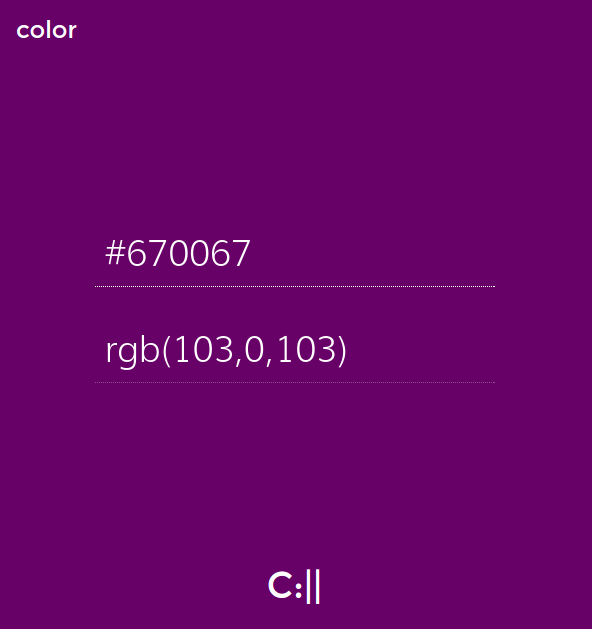
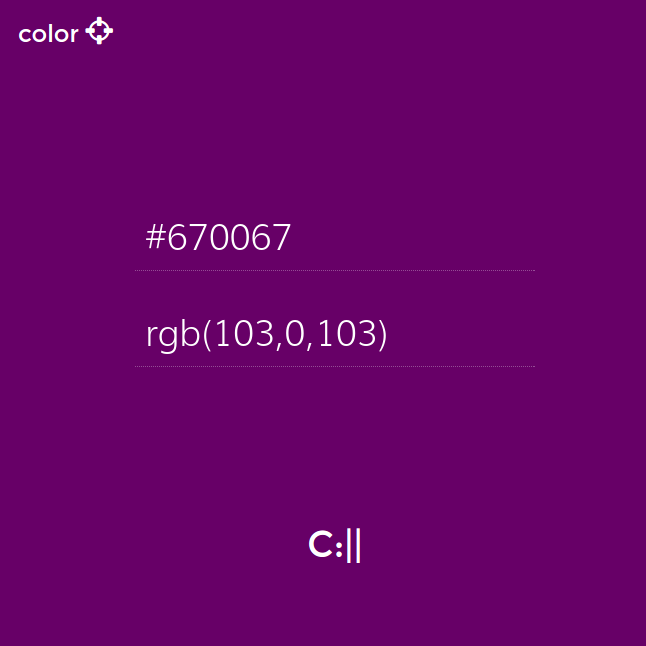
added get coordinates and get color features

diff --git a/public/javascripts/global.js b/public/javascripts/global.js
@@ -6,12 +6,90 @@ var light_color_2 = '#CCCCCC'
 var dark_color = '#000000'
 var dark_color_2 = '#333333'
 
-/* DOM Ready
+var socket = io()
+
+/* DOM Events
 ------------------------------------------------------------------------------*/
 $(document).ready(function() {
   luminance()
   inputHandlers()
 })
+
+$(document).keyup(function(e) {
+  // 'p' key pressed
+  if (e.keyCode == 80) {
+
+    $('.pos').toggleClass('pause')
+
+    var paused = $('.pos').hasClass('pause')
+    var inside = $('body').hasClass('inside')
+
+    if (paused) {
+      $('.state').text('paused.')
+      emitColorPos('stop')
+    }
+    else if (!inside) {
+      $('.state').text('scanning...')
+      emitColorPos('start')
+    }
+    else {
+      $('.state').text('')
+    }
+  }
+})
+
+$(document).mouseleave(function() {
+  $('body').toggleClass('inside')
+
+  var paused = $('.pos').hasClass('pause')
+  if (!paused) {
+    $('.state').text('scanning...')
+    emitColorPos('start')
+  }
+
+  socket.on('robotInfo', function(x, y, color) {
+    outputRobotInfo(x, y, color)
+  })
+
+})
+
+$(document).mouseenter(function() {
+  $('body').toggleClass('inside')
+
+  var paused = $('.pos').hasClass('pause')
+  if (!paused) {
+    $('.state').text('')
+    emitColorPos('stop')
+  }
+})
+
+/* IO Events
+------------------------------------------------------------------------------*/
+function emitColorPos(type) {
+  switch(type) {
+    case 'start':
+      socket.emit('startColorPos')
+      break
+    case 'stop':
+      socket.emit('stopColorPos')
+      break
+  }
+}
+
+function outputRobotInfo(x, y, robotColor) {
+  // Set hex value
+  var hex = '#' + robotColor.toUpperCase()
+  $('#hex').val(hex)
+
+  // Set rgb value and background color
+  var color = hexToRgb(hex)
+  $('#rgb').val(color.m)
+  $('body').css('background-color', color.m)
+
+  $('.pos').text(x + ', ' + y)
+  // Set text color based on background color
+  luminance()
+}
 
 /* Event Handlers
 ------------------------------------------------------------------------------*/
@@ -33,6 +111,8 @@ function inputHandlers() {
 
     luminance()
 
+    $('.pos').text('')
+
   })
 
   rgb.on('input', () => {
@@ -49,6 +129,7 @@ function inputHandlers() {
 
     luminance()
 
+    $('.pos').text('')
   })
 }
 
@@ -112,7 +193,7 @@ function luminance() {
 
   var luma = 0.2126 * rgb.r + 0.7152 * rgb.g + 0.0722 * rgb.b // per ITU-R BT.709
 
-  if (luma < 80) {
+  if (luma < 100) {
     $('body').removeClass('body-dark')
     $('input').removeClass('input-dark')
 

diff --git a/app.js b/app.js
@@ -3,6 +3,12 @@ var stylus = require('stylus')
 var nib = require('nib')
 
 var app = express()
+var favicon = require('serve-favicon')
+app.use(favicon(__dirname + '/public/assets/favicon.ico'))
+
+var server = require('http').Server(app)
+var io = require('socket.io')(server)
+var robot = require('robotjs')
 
 function compile(str, path) {
   return stylus(str)
@@ -17,10 +23,27 @@ app.use(stylus.middleware(
 ))
 app.use(express.static(__dirname + '/public'))
 
+app.use('/socket.io', express.static(__dirname + '/node_modules/socket.io-client/'))
+
 app.get('/', function (req, res) {
   res.render('index', { title : 'Color Coordinate' })
 })
 
-app.listen(3000, function () {
+io.on('connection', function(socket) {
+  var timer
+
+  socket.on('startColorPos', function() {
+    timer = setInterval(() => {
+      mouse = robot.getMousePos()
+      socket.emit('robotInfo', mouse.x, mouse.y, robot.getPixelColor(mouse.x, mouse.y))
+    }, 500)
+  })
+
+  socket.on('stopColorPos', function() {
+    clearInterval(timer)
+  })
+})
+
+server.listen(3000, function() {
   console.log('Example app listening on port 3000!');
-});
+})
